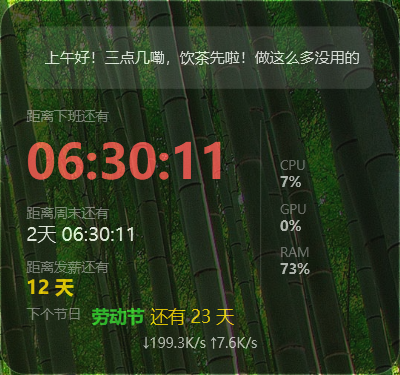
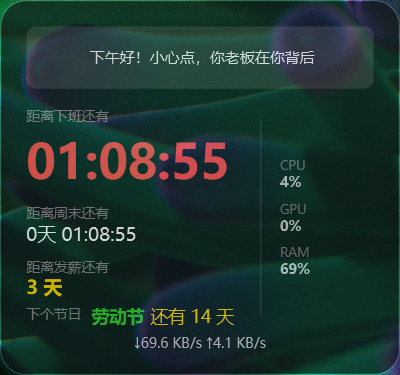
ignore 修改README说明

diff --git a/README.md b/README.md
@@ -1,20 +1,41 @@
 # ⚡ CyberSlacker (赛博摸鱼员)
 
+### 📝 代码质量
 
-[![Build Status](https://github.com/objectyan/CyberSlacker/actions/workflows/release.yml/badge.svg?branch=master)](https://github.com/objectyan/CyberSlacker/actions/workflows/release.yml)
-[![Preview Build Status](https://github.com/objectyan/CyberSlacker/actions/workflows/preview.yml/badge.svg?branch=master)](https://github.com/objectyan/CyberSlacker/actions/workflows/preview.yml)
-[![WinGet Version](https://img.shields.io/winget/v/LaborLogic.CyberSlacker?label=winget&style=flat-square)](https://github.com/microsoft/winget-pkgs)
-[![Latest Release](https://img.shields.io/github/v/release/objectyan/CyberSlacker?color=orange&logo=github)](https://github.com/objectyan/CyberSlacker/releases)
-[![License](https://img.shields.io/github/license/objectyan/CyberSlacker?color=blue)](https://github.com/objectyan/CyberSlacker/blob/master/LICENSE)
-![Framework](https://img.shields.io/badge/.NET-8.0-blueviolet?logo=dotnet)
-[![Downloads](https://img.shields.io/github/downloads/objectyan/CyberSlacker/total?color=brightgreen)](https://github.com/objectyan/CyberSlacker/releases)
-[![Preview Download](https://img.shields.io/badge/download-preview-red?logo=windows)](https://github.com/objectyan/CyberSlacker/releases/tag/preview)
-[![Stars](https://img.shields.io/github/stars/objectyan/CyberSlacker?style=flat&color=yellow)](https://github.com/objectyan/CyberSlacker/stargazers)
-[![GitHub commit activity](https://img.shields.io/github/commit-activity/m/objectyan/CyberSlacker)](https://github.com/objectyan/CyberSlacker/commits/master)
-![Last Commit](https://img.shields.io/github/last-commit/objectyan/CyberSlacker?color=blue)
-![Top Language](https://img.shields.io/github/languages/top/objectyan/CyberSlacker?color=blueviolet)
-[![CodeFactor](https://www.codefactor.io/repository/github/objectyan/CyberSlacker/badge)](https://www.codefactor.io/repository/github/objectyan/CyberSlacker)
+[![CodeFactor](https://www.codefactor.io/repository/github/objectyan/CyberSlacker/badge?style=flat-square)](https://www.codefactor.io/repository/github/objectyan/CyberSlacker)
 
+### 🚀 构建状态
+
+[![Build and Release CyberSlacker](https://img.shields.io/github/actions/workflow/status/objectyan/CyberSlacker/release.yml?branch=v1.0.3&label=Build&logo=github&style=flat-square)](https://github.com/objectyan/CyberSlacker/actions/workflows/release.yml)
+[![Preview Build (Preview)](https://img.shields.io/github/actions/workflow/status/objectyan/CyberSlacker/preview.yml?label=Preview&logo=github&style=flat-square)](https://github.com/objectyan/CyberSlacker/actions/workflows/preview.yml)
+
+### 📌 版本信息
+
+[![Latest Release](https://img.shields.io/github/v/release/objectyan/CyberSlacker?color=orange&logo=github&style=flat-square&label=Release)](https://github.com/objectyan/CyberSlacker/releases)
+[![Latest Tag](https://img.shields.io/github/v/tag/objectyan/CyberSlacker?color=red&logo=github&style=flat-square&label=Tag)](https://github.com/objectyan/CyberSlacker/tags)
+[![WinGet Version](https://img.shields.io/badge/WinGet-v1.0.2-green?logo=windows&style=flat-square)](https://github.com/microsoft/winget-pkgs/tree/master/manifests/o/objectyan/CyberSlacker)
+
+### 🛠 技术栈
+
+[![.NET](https://img.shields.io/badge/.NET-8.0-blue?logo=dotnet&style=flat-square)](https://dotnet.microsoft.com/zh-cn/download/dotnet/8.0)
+[![Language](https://img.shields.io/github/languages/top/objectyan/CyberSlacker?color=blue&logo=csharp&style=flat-square)](https://github.com/objectyan/CyberSlacker)
+[![Platform](https://img.shields.io/badge/platform-Windows-0078D6?logo=windows&style=flat-square&label=Platform)](https://github.com/objectyan/CyberSlacker)
+
+### 📊 项目数据
+
+[![Downloads](https://img.shields.io/github/downloads/objectyan/CyberSlacker/total?color=green&logo=github&style=flat-square&label=Downloads)](https://github.com/objectyan/CyberSlacker/releases)
+[![Preview Downloads](https://img.shields.io/github/downloads/objectyan/CyberSlacker/preview/total?label=Preview%20Downloads&color=green&style=flat-square)](https://github.com/objectyan/CyberSlacker/releases/tag/preview)
+[![Stars](https://img.shields.io/github/stars/objectyan/CyberSlacker?color=yellow&logo=github&style=flat-square&label=Stars)](https://github.com/objectyan/CyberSlacker/stargazers)
+[![Repo Size](https://img.shields.io/github/repo-size/objectyan/CyberSlacker?color=purple&logo=github&style=flat-square&label=Repo%20Size)](https://github.com/objectyan/CyberSlacker)
+
+### 📈 活跃度
+
+[![GitHub Commit Activity](https://img.shields.io/github/commit-activity/m/objectyan/CyberSlacker?color=green&logo=git&style=flat-square&label=Commit%20Activity)](https://github.com/objectyan/CyberSlacker)
+[![Last Commit](https://img.shields.io/github/last-commit/objectyan/CyberSlacker?color=brown&logo=git&style=flat-square&label=Last%20Commit)](https://github.com/objectyan/CyberSlacker/commits/master)
+
+### 📄 协议
+
+[![License](https://img.shields.io/github/license/objectyan/CyberSlacker?color=orange&logo=opensourceinitiative&style=flat-square&label=License)](https://github.com/objectyan/CyberSlacker/blob/master/LICENSE)
 
 > 掌控搬砖时间的终极逻辑。
 
@@ -26,38 +47,39 @@
 
 ## 📸 界面预览
 
-| 主挂件界面 | 设置中心 | 关于界面 |
-| :---: | :---: | :---: |
-| ![主界面](docs/screenshots/main_widget.png) | ![设置中心](docs/screenshots/settings_panel.png) | ![关于界面](docs/screenshots/about_panel.png) |
-| *半透明磨砂质感，全屏自由拖动* | *精细化考勤与提醒配置* | *“关于”页面的温情提示* |
+|                 主挂件界面                  |                     设置中心                     |                   关于界面                    |                   更新界面                    |
+| :-----------------------------------------: | :----------------------------------------------: | :-------------------------------------------: | :-------------------------------------------: |
+| ![主界面](docs/screenshots/main_widget.png) | ![设置中心](docs/screenshots/settings_panel.png) | ![关于界面](docs/screenshots/about_panel.png) | ![更新界面](docs/screenshots/update_panel.png) |
+|       _半透明磨砂质感，全屏自由拖动_        |              _精细化考勤与提醒配置_              |            _“关于”页面的温情提示_             |            _摸鱼组件升级，带变更日志一键更新_             |
 
 ---
 
 ## ✨ 核心亮点
 
-*   **🛡 真正“不死”的挂件**：
-    *   采用底层 Win32 样式补丁，即使按下 `Win+D` 显示桌面，挂件依然稳如泰山。
-    *   **锁定模式**：开启后点击穿透，不抢占焦点，像壁纸一样静静存在。
-*   **📅 智联节假日 API**：
-    *   集成 `Timor.tech` 接口，自动同步法定节假日。
-    *   **补班感知**：完美识别“调休导致的周六日上班”，倒计时绝不漏算。
-*   **⏰ 净工时倒计时**：
-    *   支持自动扣除**午休时间**及**周期性小憩**时间，显示真正的剩余“搬砖”秒数。
-*   **💰 智能发薪日**：
-    *   **策略调整**：发薪日遇周末？可选“提前发放”或“延后发放”，逻辑严密。
-*   **🎨 现代感交互**：
-    *   **彩色 Toast 通知**：下班、点餐、久坐提醒均采用 Windows 10/11 现代彩色通知。
-    *   **动态毒鸡汤**：内置海量打工人金句，根据时段随机切换。
+- **🛡 真正“不死”的挂件**：
+  - 采用底层 Win32 样式补丁，即使按下 `Win+D` 显示桌面，挂件依然稳如泰山。
+  - **锁定模式**：开启后点击穿透，不抢占焦点，像壁纸一样静静存在。
+- **📅 智联节假日 API**：
+  - 集成 `Timor.tech` 接口，自动同步法定节假日。
+  - **补班感知**：完美识别“调休导致的周六日上班”，倒计时绝不漏算。
+- **⏰ 净工时倒计时**：
+  - 支持自动扣除**午休时间**及**周期性小憩**时间，显示真正的剩余“搬砖”秒数。
+- **💰 智能发薪日**：
+  - **策略调整**：发薪日遇周末？可选“提前发放”或“延后发放”，逻辑严密。
+- **🎨 现代感交互**：
+  - **彩色 Toast 通知**：下班、点餐、久坐提醒均采用 Windows 10/11 现代彩色通知。
+  - **动态毒鸡汤**：内置海量打工人金句，根据时段随机切换。
 
 ---
 
 ## 🛠 技术栈
 
-*   **运行时**：.NET 8.0 (WPF)
-*   **架构模式**：MVVM (Model-View-ViewModel)
-*   **三方组件**：`H.NotifyIcon.Wpf`, `CommunityToolkit.Mvvm`, `CommunityToolkit.WinUI.Notifications`
+- **运行时**：.NET 8.0 (WPF)
+- **架构模式**：MVVM (Model-View-ViewModel)
+- **三方组件**：`H.NotifyIcon.Wpf`, `CommunityToolkit.Mvvm`, `CommunityToolkit.WinUI.Notifications`
 
 ### 📈 摸鱼开发动态
+
 ![提交动态](https://github-readme-activity-graph.vercel.app/graph?username=objectyan&bg_color=1a1a1a&color=ff5252&line=ff5252&point=ffffff&area=true&hide_border=true)
 
 ---
@@ -65,34 +87,37 @@
 ## 🚀 快速开始
 
 ### 1. 环境准备
-*   安装 [Visual Studio 2022](https://visualstudio.microsoft.com/)。
-*   确保安装了 **.NET 8.0 SDK**。
+
+- 安装 [Visual Studio 2026](https://visualstudio.microsoft.com/)。
+- 确保安装了 **.NET 8.0 SDK**。
 
 ### 2. 配置项目属性 (重要)
+
 在运行项目前，请右键点击项目 **属性 (Properties) -> 设置 (Settings)**，添加以下配置项（范围均设为 **User**）：
 
-| 名称 | 类型 | 默认值 | 说明 |
-| :--- | :--- | :--- | :--- |
-| **WindowLeft** | double | 100 | 挂件在屏幕上的横坐标 |
-| **WindowTop** | double | 100 | 挂件在屏幕上的纵坐标 |
-| **StartTime** | string | 08:30 | 每天上班时间 |
-| **EndTime** | string | 17:30 | 每天下班时间 |
-| **MealTime** | string | 11:50 | 点餐提醒时间 |
-| **LunchStart** | string | 12:00 | 午休开始时间 |
-| **LunchEnd** | string | 13:30 | 午休结束时间 |
-| **PayDay** | int | 20 | 每月发薪日期 |
-| **PaydayStrategy** | int | 0 | 遇周末策略 (0:提前, 1:延后) |
-| **WorkMode** | int | 0 | 工作制 (0:双休, 1:大小周, 2:单休) |
-| **RestInterval** | int | 60 | 久坐提醒间隔(分钟) |
-| **IsRestEnabled** | bool | true | 是否开启久坐提醒 |
-| **PreOffWorkMins** | int | 30 | 临近下班的“跑路预警”提前量 |
-| **IsAutoStart** | bool | false | 是否随系统启动 |
-| **IsLocked** | bool | false | 是否开启点击穿透/锁定 |
-| **Opacity** | double | 0.8 | 挂件不透明度 (0.1 - 1.0) |
-| **HolidayCacheJson** | string | (留空) | 节假日数据缓存 |
-| **LastHolidayUpdate** | DateTime | 2000-01-01 | 上次同步 API 的日期 |
+| 名称                  | 类型     | 默认值     | 说明                              |
+| :-------------------- | :------- | :--------- | :-------------------------------- |
+| **WindowLeft**        | double   | 100        | 挂件在屏幕上的横坐标              |
+| **WindowTop**         | double   | 100        | 挂件在屏幕上的纵坐标              |
+| **StartTime**         | string   | 08:30      | 每天上班时间                      |
+| **EndTime**           | string   | 17:30      | 每天下班时间                      |
+| **MealTime**          | string   | 11:50      | 点餐提醒时间                      |
+| **LunchStart**        | string   | 12:00      | 午休开始时间                      |
+| **LunchEnd**          | string   | 13:30      | 午休结束时间                      |
+| **PayDay**            | int      | 20         | 每月发薪日期                      |
+| **PaydayStrategy**    | int      | 0          | 遇周末策略 (0:提前, 1:延后)       |
+| **WorkMode**          | int      | 0          | 工作制 (0:双休, 1:大小周, 2:单休) |
+| **RestInterval**      | int      | 60         | 久坐提醒间隔(分钟)                |
+| **IsRestEnabled**     | bool     | true       | 是否开启久坐提醒                  |
+| **PreOffWorkMins**    | int      | 30         | 临近下班的“跑路预警”提前量        |
+| **IsAutoStart**       | bool     | false      | 是否随系统启动                    |
+| **IsLocked**          | bool     | false      | 是否开启点击穿透/锁定             |
+| **Opacity**           | double   | 0.8        | 挂件不透明度 (0.1 - 1.0)          |
+| **HolidayCacheJson**  | string   | (留空)     | 节假日数据缓存                    |
+| **LastHolidayUpdate** | DateTime | 2000-01-01 | 上次同步 API 的日期               |
 
 ### 3. 编译与运行
+
 1. 将你的图标文件命名为 `app.ico` 放入项目根目录。
 2. 在 VS 中点击 `app.ico`，属性栏设置 **生成操作 (Build Action)** 为 **资源 (Resource)**。
 3. 按 `F5` 启动，组件会出现在设定坐标处，支持全屏自由拖动。
